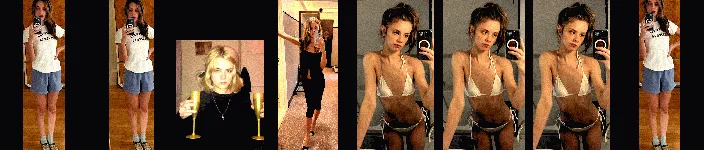
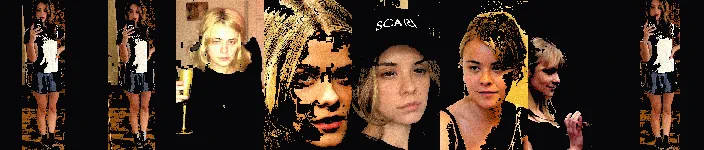
Fold capture refs into the bottom dancer sheet.
Downtown stills (weekend/profile/hero) plus Cotton, wiki 2022, and
Berlinale crops. Slouch steps, CC credits, no 2018-collar lock.

diff --git a/dasha-dance-client.js b/dasha-dance-client.js
@@ -13,14 +13,14 @@
   var FW = 88;
   var FH = 150;
   var STEPS = [
-    { f: 0, x: 0, y: 0, s: 1, t: 160 },
-    { f: 1, x: 6, y: -11, s: 1.04, t: 110 },
-    { f: 2, x: 10, y: 2, s: 0.97, t: 180 },
-    { f: 3, x: 4, y: -14, s: 1.05, t: 130 },
-    { f: 4, x: -6, y: 1, s: 0.99, t: 150 },
-    { f: 5, x: -10, y: -8, s: 1.03, t: 120 },
-    { f: 6, x: 2, y: 3, s: 0.96, t: 170 },
-    { f: 7, x: 8, y: -12, s: 1.04, t: 140 }
+    { f: 0, x: 0, y: 0, s: 1, t: 180 },
+    { f: 1, x: 8, y: -2, s: 1.01, t: 160 },
+    { f: 2, x: 4, y: 1, s: 0.99, t: 200 },
+    { f: 3, x: -3, y: 0, s: 1.02, t: 170 },
+    { f: 4, x: -8, y: -1, s: 1, t: 180 },
+    { f: 5, x: -5, y: 2, s: 0.98, t: 150 },
+    { f: 6, x: 3, y: 1, s: 1.01, t: 190 },
+    { f: 7, x: 6, y: -2, s: 1, t: 160 }
   ];
 
   var dock = null;

diff --git a/dasha-dance-sheet-build.py b/dasha-dance-sheet-build.py
@@ -1,5 +1,5 @@
 #!/usr/bin/env python3
-"""Digitize first-party stills into an MK hard-keyed sprite strip. ffmpeg in, webp out."""
+"""Digitize first-party + CC stills into an MK hard-keyed sprite strip. ffmpeg in, webp out."""
 from __future__ import annotations
 
 import random
@@ -9,24 +9,30 @@ from pathlib import Path
 
 ROOT = Path(__file__).resolve().parent
 PHOTO = ROOT / "dasha-worker-assets" / "simp" / "photo"
+REFS = ROOT / "dasha-dance-refs"
 OUT = ROOT / "dasha-worker-assets" / "client" / "dasha-sheet.webp"
 INK = (7, 6, 8)
 FW, FH = 88, 150
-# Loose figure windows as (x, y, w, h) fractions. Feet sit on the cell floor.
+# Downtown default. The 2018 one-day shirt is omitted: no CC still of that collar.
+# face = fill the cell; body = contain, feet on the floor.
 FRAMES = [
-    ("weekend.jpg", (0.30, 0.05, 0.36, 0.90)),
-    ("weekend.jpg", (0.24, 0.04, 0.40, 0.92)),
-    ("profile.jpg", (0.10, 0.00, 0.80, 1.00)),
-    ("bull.jpg", (0.18, 0.02, 0.52, 0.96)),
-    ("public.jpg", (0.16, 0.00, 0.66, 0.98)),
-    ("press.jpg", (0.14, 0.00, 0.70, 0.98)),
-    ("chart.jpg", (0.16, 0.00, 0.66, 0.98)),
-    ("weekend.jpg", (0.34, 0.08, 0.34, 0.86)),
+    ("weekend.jpg", (0.28, 0.04, 0.38, 0.92), "body"),
+    ("weekend.jpg", (0.22, 0.03, 0.42, 0.94), "body"),
+    ("profile.jpg", (0.04, 0.00, 0.92, 1.00), "face"),
+    ("hero.jpg", (0.16, 0.06, 0.68, 0.62), "face"),
+    ("wiki-2022.jpg", (0.10, 0.00, 0.80, 0.92), "face"),
+    ("cotton-2014.jpg", (0.08, 0.00, 0.84, 0.94), "face"),
+    ("berlinale-2021.jpg", (0.375, 0.130, 0.219, 0.759), "face"),
+    ("weekend.jpg", (0.32, 0.06, 0.34, 0.88), "body"),
 ]
 
 
-def run(cmd: list[str]) -> None:
-    subprocess.check_call(cmd, stdout=subprocess.DEVNULL, stderr=subprocess.DEVNULL)
+def src(name: str) -> Path:
+    for base in (PHOTO, REFS):
+        p = base / name
+        if p.exists():
+            return p
+    raise FileNotFoundError(name)
 
 
 def probe(path: Path) -> tuple[int, int]:
@@ -66,7 +72,53 @@ def luma(p: tuple[int, int, int]) -> int:
 
 def skin(p: tuple[int, int, int]) -> bool:
     r, g, b = p
-    return r > 70 and r > g - 8 and r > b and (r - b) > 12 and g > 40
+    if r < 105 or g < 55 or b < 48:
+        return False
+    if r <= g or r <= b or (r - b) < 20 or (r - g) < 16:
+        return False
+    if (g - b) > 50:
+        return False
+    if b > 85 and (r - g) < 22 and (g - b) < 32:
+        return False
+    return True
+
+
+def hairish(p: tuple[int, int, int]) -> bool:
+    r, g, b = p
+    L = luma(p)
+    return (
+        L >= 145 and r >= 150 and g >= 120
+        and r >= g - 8 and (r - g) < 48
+        and (g - b) > 28 and b < 135
+    )
+
+
+def sat_blue(p: tuple[int, int, int]) -> bool:
+    r, g, b = p
+    return b > 90 and b > r + 28 and b > g + 18
+
+
+def near_white(p: tuple[int, int, int]) -> bool:
+    r, g, b = p
+    return min(r, g, b) > 188 and max(r, g, b) - min(r, g, b) < 36
+
+
+def flat_gray(p: tuple[int, int, int]) -> bool:
+    r, g, b = p
+    return abs(r - g) < 16 and abs(g - b) < 16 and 55 < luma(p) < 210
+
+
+def warm_wood(p: tuple[int, int, int]) -> bool:
+    r, g, b = p
+    L = luma(p)
+    return r > g + 10 and g > b + 10 and 55 < L < 165 and (r - b) > 50 and b < 80
+
+
+def beige_wall(p: tuple[int, int, int]) -> bool:
+    r, g, b = p
+    L = luma(p)
+    spread = max(r, g, b) - min(r, g, b)
+    return 110 < L < 215 and 8 < spread < 55 and r + g > b * 2.05
 
 
 def crop(buf: bytearray, w: int, h: int, box: tuple[float, float, float, float]) -> tuple[int, int, bytearray]:
@@ -78,9 +130,9 @@ def crop(buf: bytearray, w: int, h: int, box: tuple[float, float, float, float])
     nw, nh = x1 - x0, y1 - y0
     out = bytearray(nw * nh * 3)
     for yy in range(nh):
-        src = ((y0 + yy) * w + x0) * 3
+        src_i = ((y0 + yy) * w + x0) * 3
         dst = yy * nw * 3
-        out[dst : dst + nw * 3] = buf[src : src + nw * 3]
+        out[dst : dst + nw * 3] = buf[src_i : src_i + nw * 3]
     return nw, nh, out
 
 
@@ -99,7 +151,7 @@ def near_bg(p: tuple[int, int, int], samples: list[tuple[int, int, int]], limit:
     return any(dist(p, s) <= limit for s in samples)
 
 
-def key(buf: bytearray, w: int, h: int) -> None:
+def key(buf: bytearray, w: int, h: int, mode: str = "body") -> None:
     samples = edge_samples(buf, w, h)
     keep = bytearray(b"\x01" * (w * h))
     stack = []
@@ -117,12 +169,18 @@ def key(buf: bytearray, w: int, h: int) -> None:
             continue
         seen[i] = 1
         p = px(buf, w, x, y)
+        if skin(p) or hairish(p):
+            continue
         cx = x / max(1, w - 1)
         cy = y / max(1, h - 1)
-        core = 0.18 < cx < 0.82 and cy < 0.88
-        if core or skin(p):
-            continue
-        if not near_bg(p, samples, 48):
+        core = 0.18 < cx < 0.82 and 0.06 < cy < 0.88
+        inner = 0.28 < cx < 0.72 and 0.12 < cy < 0.78
+        drop = sat_blue(p) or warm_wood(p) or beige_wall(p) or near_bg(p, samples, 54)
+        if flat_gray(p) and near_bg(p, samples, 78):
+            drop = True
+        if near_white(p) and not (inner if mode == "face" else core):
+            drop = True
+        if not drop:
             continue
         keep[i] = 0
         for nx, ny in ((x - 1, y), (x + 1, y), (x, y - 1), (x, y + 1)):
@@ -130,7 +188,12 @@ def key(buf: bytearray, w: int, h: int) -> None:
                 stack.append((nx, ny))
     for y in range(h):
         for x in range(w):
-            if not keep[y * w + x]:
+            p = px(buf, w, x, y)
+            if not keep[y * w + x] or skin(p) or hairish(p):
+                if not keep[y * w + x]:
+                    setpx(buf, w, x, y, INK)
+                continue
+            if sat_blue(p) or warm_wood(p) or beige_wall(p):
                 setpx(buf, w, x, y, INK)
 
 
@@ -154,13 +217,24 @@ def contrast_grain(buf: bytearray, w: int, h: int, seed: int) -> None:
         buf[o + 2] = min(255, max(0, b + noise))
 
 
-def scale_pad(buf: bytearray, w: int, h: int) -> bytearray:
-    scale = min(FW / w, FH / h)
-    nw, nh = max(1, int(w * scale)), max(1, int(h * scale))
-    ox, oy = (FW - nw) // 2, FH - nh
+def scale_pad(buf: bytearray, w: int, h: int, mode: str) -> bytearray:
     out = bytearray(FW * FH * 3)
     for i in range(0, len(out), 3):
         out[i : i + 3] = bytes(INK)
+    if mode == "face":
+        scale = max(FW / w, FH / h)
+        sw, sh = FW / scale, FH / scale
+        sx0 = (w - sw) / 2
+        sy0 = max(0.0, (h - sh) / 2 - h * 0.04)
+        for y in range(FH):
+            sy = min(h - 1, max(0, int(sy0 + y / scale)))
+            for x in range(FW):
+                sx = min(w - 1, max(0, int(sx0 + x / scale)))
+                setpx(out, FW, x, y, px(buf, w, sx, sy))
+        return out
+    scale = min(FW / w, FH / h)
+    nw, nh = max(1, int(w * scale)), max(1, int(h * scale))
+    ox, oy = (FW - nw) // 2, FH - nh
     for y in range(nh):
         sy = min(h - 1, int(y / scale))
         for x in range(nw):
@@ -185,18 +259,29 @@ def encode_webp(rgb: bytes, w: int, h: int, dest: Path) -> None:
     )
 
 
+def live_pixels(buf: bytearray, w: int, h: int) -> int:
+    n = 0
+    for i in range(0, len(buf), 3):
+        if (buf[i], buf[i + 1], buf[i + 2]) != INK:
+            n += 1
+    return n
+
+
 def main() -> int:
     strip = bytearray(FW * len(FRAMES) * FH * 3)
-    for i, (name, box) in enumerate(FRAMES):
-        w, h, raw = decode_rgb(PHOTO / name)
+    for i, (name, box, mode) in enumerate(FRAMES):
+        w, h, raw = decode_rgb(src(name))
         cw, ch, cut = crop(raw, w, h, box)
-        key(cut, cw, ch)
+        key(cut, cw, ch, mode)
         contrast_grain(cut, cw, ch, seed=11 + i * 17)
-        cell = scale_pad(cut, cw, ch)
+        cell = scale_pad(cut, cw, ch, mode)
+        live = live_pixels(cell, FW, FH)
+        if live < FW * FH * 0.08:
+            raise SystemExit(f"{name} cell {i} too empty ({live} live px)")
         for y in range(FH):
-            src = y * FW * 3
+            src_i = y * FW * 3
             dst = (y * (FW * len(FRAMES)) + i * FW) * 3
-            strip[dst : dst + FW * 3] = cell[src : src + FW * 3]
+            strip[dst : dst + FW * 3] = cell[src_i : src_i + FW * 3]
     encode_webp(bytes(strip), FW * len(FRAMES), FH, OUT)
     print(f"wrote {OUT} {OUT.stat().st_size} bytes {FW * len(FRAMES)}x{FH}")
     return 0
